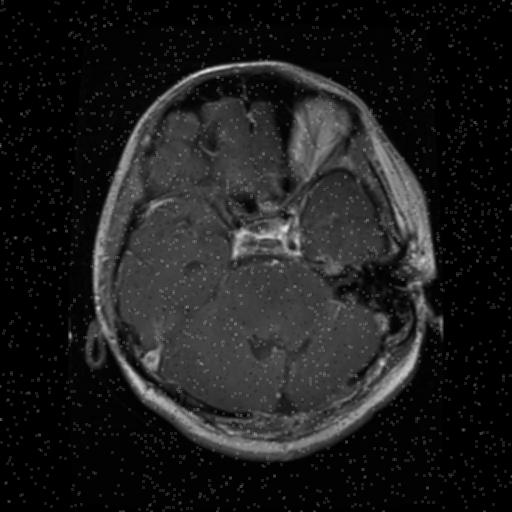
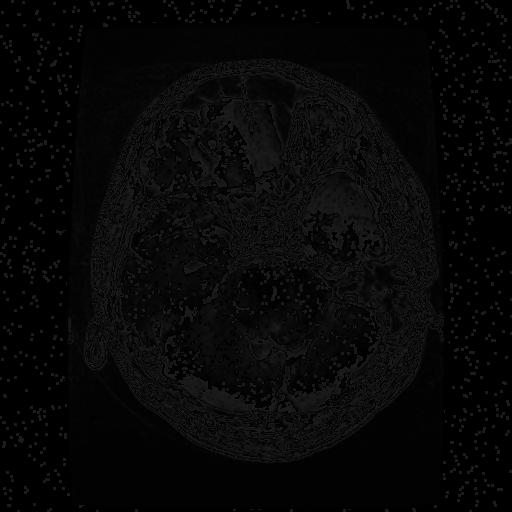
calculo manual

diff --git a/PIM/Ex01/preProcessamento.py b/PIM/Ex01/preProcessamento.py
@@ -25,41 +25,61 @@ def adicionar_ruido_sal_pimenta(imagem_array, proporcao_sal=0.01, proporcao_pime
 
 def aplicar_filtro_media(imagem_array, tamanho_kernel=3):
     borda = tamanho_kernel // 2
-    imagem_preenchida = np.pad(imagem_array, pad_width=borda, mode='edge')
-    imagem_suavizada = np.zeros_like(imagem_array)
+    altura, largura = imagem_array.shape
+    imagem_suavizada = np.zeros((altura, largura), dtype=np.uint8)
 
-    for i in range(imagem_array.shape[0]):
-        for j in range(imagem_array.shape[1]):
-            regiao = imagem_preenchida[i:i+tamanho_kernel, j:j+tamanho_kernel]
-            imagem_suavizada[i, j] = np.mean(regiao)
+    for i in range(altura):
+        for j in range(largura):
+            soma = 0
+            contador = 0
+            for ki in range(-borda, borda + 1):
+                for kj in range(-borda, borda + 1):
+                    ni = min(max(i + ki, 0), altura - 1)
+                    nj = min(max(j + kj, 0), largura - 1)
+                    soma += imagem_array[ni][nj]
+                    contador += 1
+            media = round(soma / contador)
+            imagem_suavizada[i][j] = media
 
-    return imagem_suavizada.astype(np.uint8)
+    return imagem_suavizada
 
 def aplicar_filtro_mediana(imagem_array, tamanho_kernel=3):
     borda = tamanho_kernel // 2
-    imagem_preenchida = np.pad(imagem_array, pad_width=borda, mode='edge')
-    imagem_suavizada = np.zeros_like(imagem_array)
+    altura, largura = imagem_array.shape
+    imagem_suavizada = np.zeros((altura, largura), dtype=np.uint8)
 
-    for i in range(imagem_array.shape[0]):
-        for j in range(imagem_array.shape[1]):
-            regiao = imagem_preenchida[i:i+tamanho_kernel, j:j+tamanho_kernel]
-            valores = regiao.flatten()
-            imagem_suavizada[i, j] = np.median(valores)
+    for i in range(altura):
+        for j in range(largura):
+            vizinhos = []
+            for ki in range(-borda, borda + 1):
+                for kj in range(-borda, borda + 1):
+                    ni = min(max(i + ki, 0), altura - 1)
+                    nj = min(max(j + kj, 0), largura - 1)
+                    vizinhos.append(imagem_array[ni][nj])
+            vizinhos.sort()
+            mediana = vizinhos[len(vizinhos) // 2]
+            imagem_suavizada[i][j] = mediana
 
-    return imagem_suavizada.astype(np.uint8)
+    return imagem_suavizada
 
 def aplicar_filtro_minimo(imagem_array, tamanho_kernel=3):
     borda = tamanho_kernel // 2
-    imagem_preenchida = np.pad(imagem_array, pad_width=borda, mode='edge')
-    imagem_suavizada = np.zeros_like(imagem_array)
+    altura, largura = imagem_array.shape
+    imagem_suavizada = np.zeros((altura, largura), dtype=np.uint8)
 
-    for i in range(imagem_array.shape[0]):
-        for j in range(imagem_array.shape[1]):
-            regiao = imagem_preenchida[i:i+tamanho_kernel, j:j+tamanho_kernel]
-            valores = regiao.flatten()
-            imagem_suavizada[i, j] = np.min(valores)
+    for i in range(altura):
+        for j in range(largura):
+            minimo = 255
+            for ki in range(-borda, borda + 1):
+                for kj in range(-borda, borda + 1):
+                    ni = min(max(i + ki, 0), altura - 1)
+                    nj = min(max(j + kj, 0), largura - 1)
+                    valor = imagem_array[ni][nj]
+                    if valor < minimo:
+                        minimo = valor
+            imagem_suavizada[i][j] = minimo
 
-    return imagem_suavizada.astype(np.uint8)
+    return imagem_suavizada
 
 caminho_dataset = kagglehub.dataset_download("masoudnickparvar/brain-tumor-mri-dataset")
 print("Caminho para os arquivos do dataset:", caminho_dataset)
